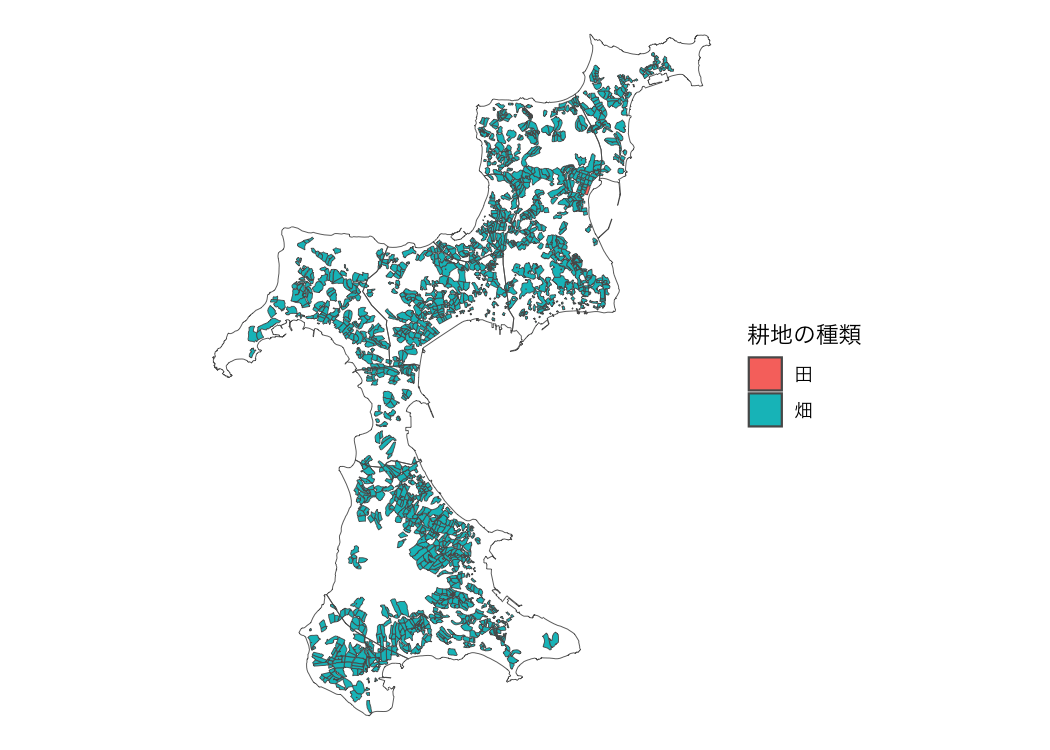
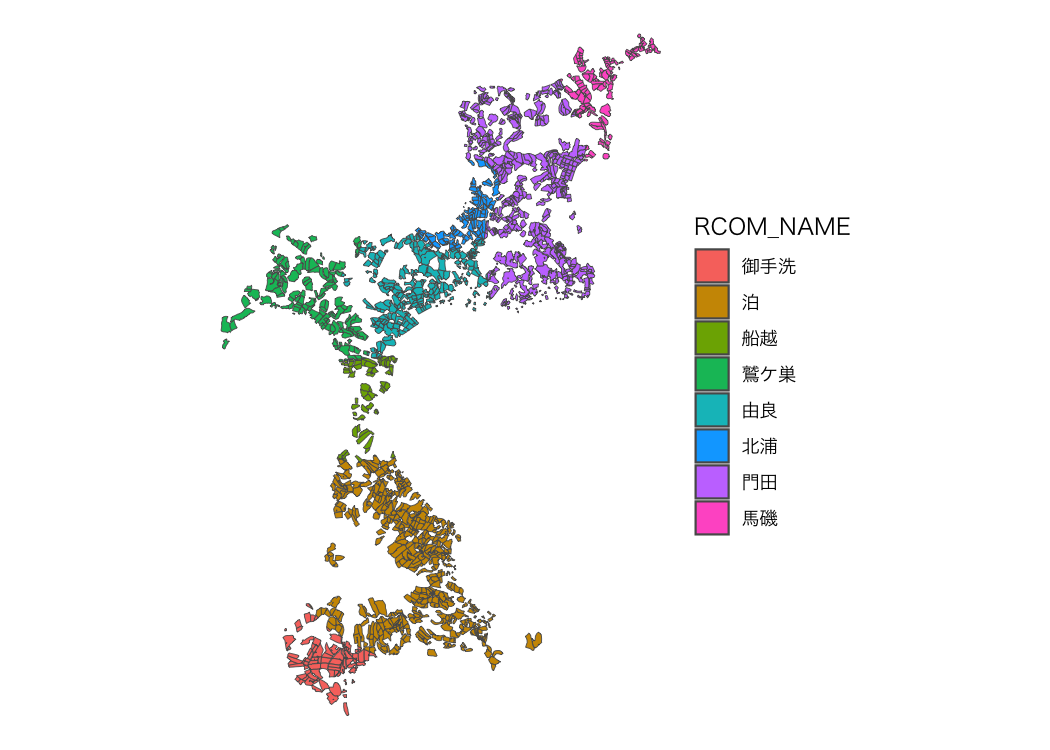
version 0.3.4

Changed region(s): [[0.2133, 0.0307, 0.6705, 0.9507], [0.64, 0.276, 0.8229, 0.736]]

diff --git a/README.md b/README.md
@@ -109,18 +109,45 @@ community boundaries.
 ``` r
 library(ggplot2)
 
-db <- combine_fude(d, b, city = "松山市", community = "御手洗|泊|船越|鷲ケ巣|由良|北浦|門田|馬磯")
+db <- combine_fude(d, b, city = "松山市", community = "由良|北浦|鷲ケ巣|門田|馬磯|泊|御手洗|船越")
 
 ggplot() +
-  geom_sf(data = db$community, fill = NA) +
-  geom_sf(data = db$fude, aes(fill = RCOM_NAME)) +
-  guides(fill = guide_legend(reverse = TRUE, title = "興居島の集落別耕地")) +
+  geom_sf(data = db$fude_split, aes(fill = RCOM_NAME)) +
   theme_void()
 ```
 
 <img src="man/figures/README-gogoshima-1.png" width="100%" />
 
 **出典**：農林水産省が提供する「筆ポリゴンデータ（2022年度公開）」および「農業集落境界データ（2021年度公開）」を加工して作成。
+
+Polygon data near the boundaries between communities may be split. To
+avoid this, do the following.
+
+``` r
+ggplot() +
+  geom_sf(data = db$community, fill = NA) +
+  geom_sf(data = db$fude, aes(fill = RCOM_NAME)) +
+  guides(fill = guide_legend(reverse = TRUE, title = "興居島の集落別耕地")) +
+  theme_void() +
+  theme(text = element_text(family = "HiraKakuProN-W3"))
+```
+
+<img src="man/figures/README-nosplit_gogoshima-1.png" width="100%" />
+
+**出典**：農林水産省が提供する「筆ポリゴンデータ（2022年度公開）」および「農業集落境界データ（2021年度公開）」を加工して作成。
+
+Polygons located on community boundaries are not split, but are assigned
+to one of the communities. If this automatic assignment needs to be
+modified, ad hoc coding is required.
+
+There are nine types of objects obtained by `combine_fude()` as follows.
+
+``` r
+names(db)
+#> [1] "fude"            "fude_split"      "community"       "community_union"
+#> [5] "ov"              "ov_all"          "lg"              "lg_all"         
+#> [9] "pref"
+```
 
 If you want to be particular about the details of the map, for example,
 execute the following code.
@@ -136,25 +163,17 @@ db <- combine_fude(d, b, city = "松山市", old_village = "興居島", communit
 minimap <- ggplot() +
   geom_sf(data = db$lg_all, aes(fill = fill)) +
   geom_sf_text(data = db$lg_all, aes(label = city_kanji), family = "HiraKakuProN-W3") +
-  geom_sf(data = db$community, fill = "black") +
+  geom_sf(data = db$community_union, fill = "black", linewidth = 0) +
   theme_void() +
   theme(panel.background = element_rect(fill = "aliceblue")) +
   scale_fill_manual(values = c("white", "gray"))
 
-db$community <- db$community %>%
-  dplyr::mutate(center = sf::st_centroid(geometry))
-
 mainmap <- ggplot() +
   geom_sf(data = db$community, fill = "whitesmoke") +
   geom_sf(data = db$fude, aes(fill = RCOM_NAME)) +
-  geom_point(data = db$community, 
-             aes(x = sf::st_coordinates(center)[, 1], 
-                 y = sf::st_coordinates(center)[, 2]), 
-             colour = "gray") +
+  geom_point(data = db$community, aes(x = x, y = y), colour = "gray") +
   geom_text_repel(data = db$community,
-                  aes(x = sf::st_coordinates(center)[, 1], 
-                      y = sf::st_coordinates(center)[, 2], 
-                      label = RCOM_NAME),
+                  aes(x = x, y = y, label = RCOM_NAME),
                   nudge_x = c(-.01, .01, -.01, -.012, .005, -.01, .01, .01),
                   nudge_y = c(.005, .005, 0, .01, -.005, .01, 0, -.005),
                   min.segment.length = .01,
@@ -214,7 +233,7 @@ library(mapview)
 
 db1 <- combine_fude(d, b, city = "伊方町")
 db2 <- combine_fude(d, b, city = "八幡浜市")
-db3 <- combine_fude(d, b, city = "西予市", old_village = "三瓶|双岩|三島|二木生")
+db3 <- combine_fude(d, b, city = "西予市", old_village = "三瓶|二木生|三島|双岩")
 db <- bind_fude(db1, db2, db3)
 
 mapview::mapview(db$fude, zcol = "RCOM_NAME", layer.name = "農業集落名")

diff --git a/NEWS.md b/NEWS.md
@@ -1,3 +1,7 @@
+# fude 0.3.4
+
+* Support for polygon data that is not split.
+
 # fude 0.3.3
 
 * Added the ability to easily draw municipal boundaries.
